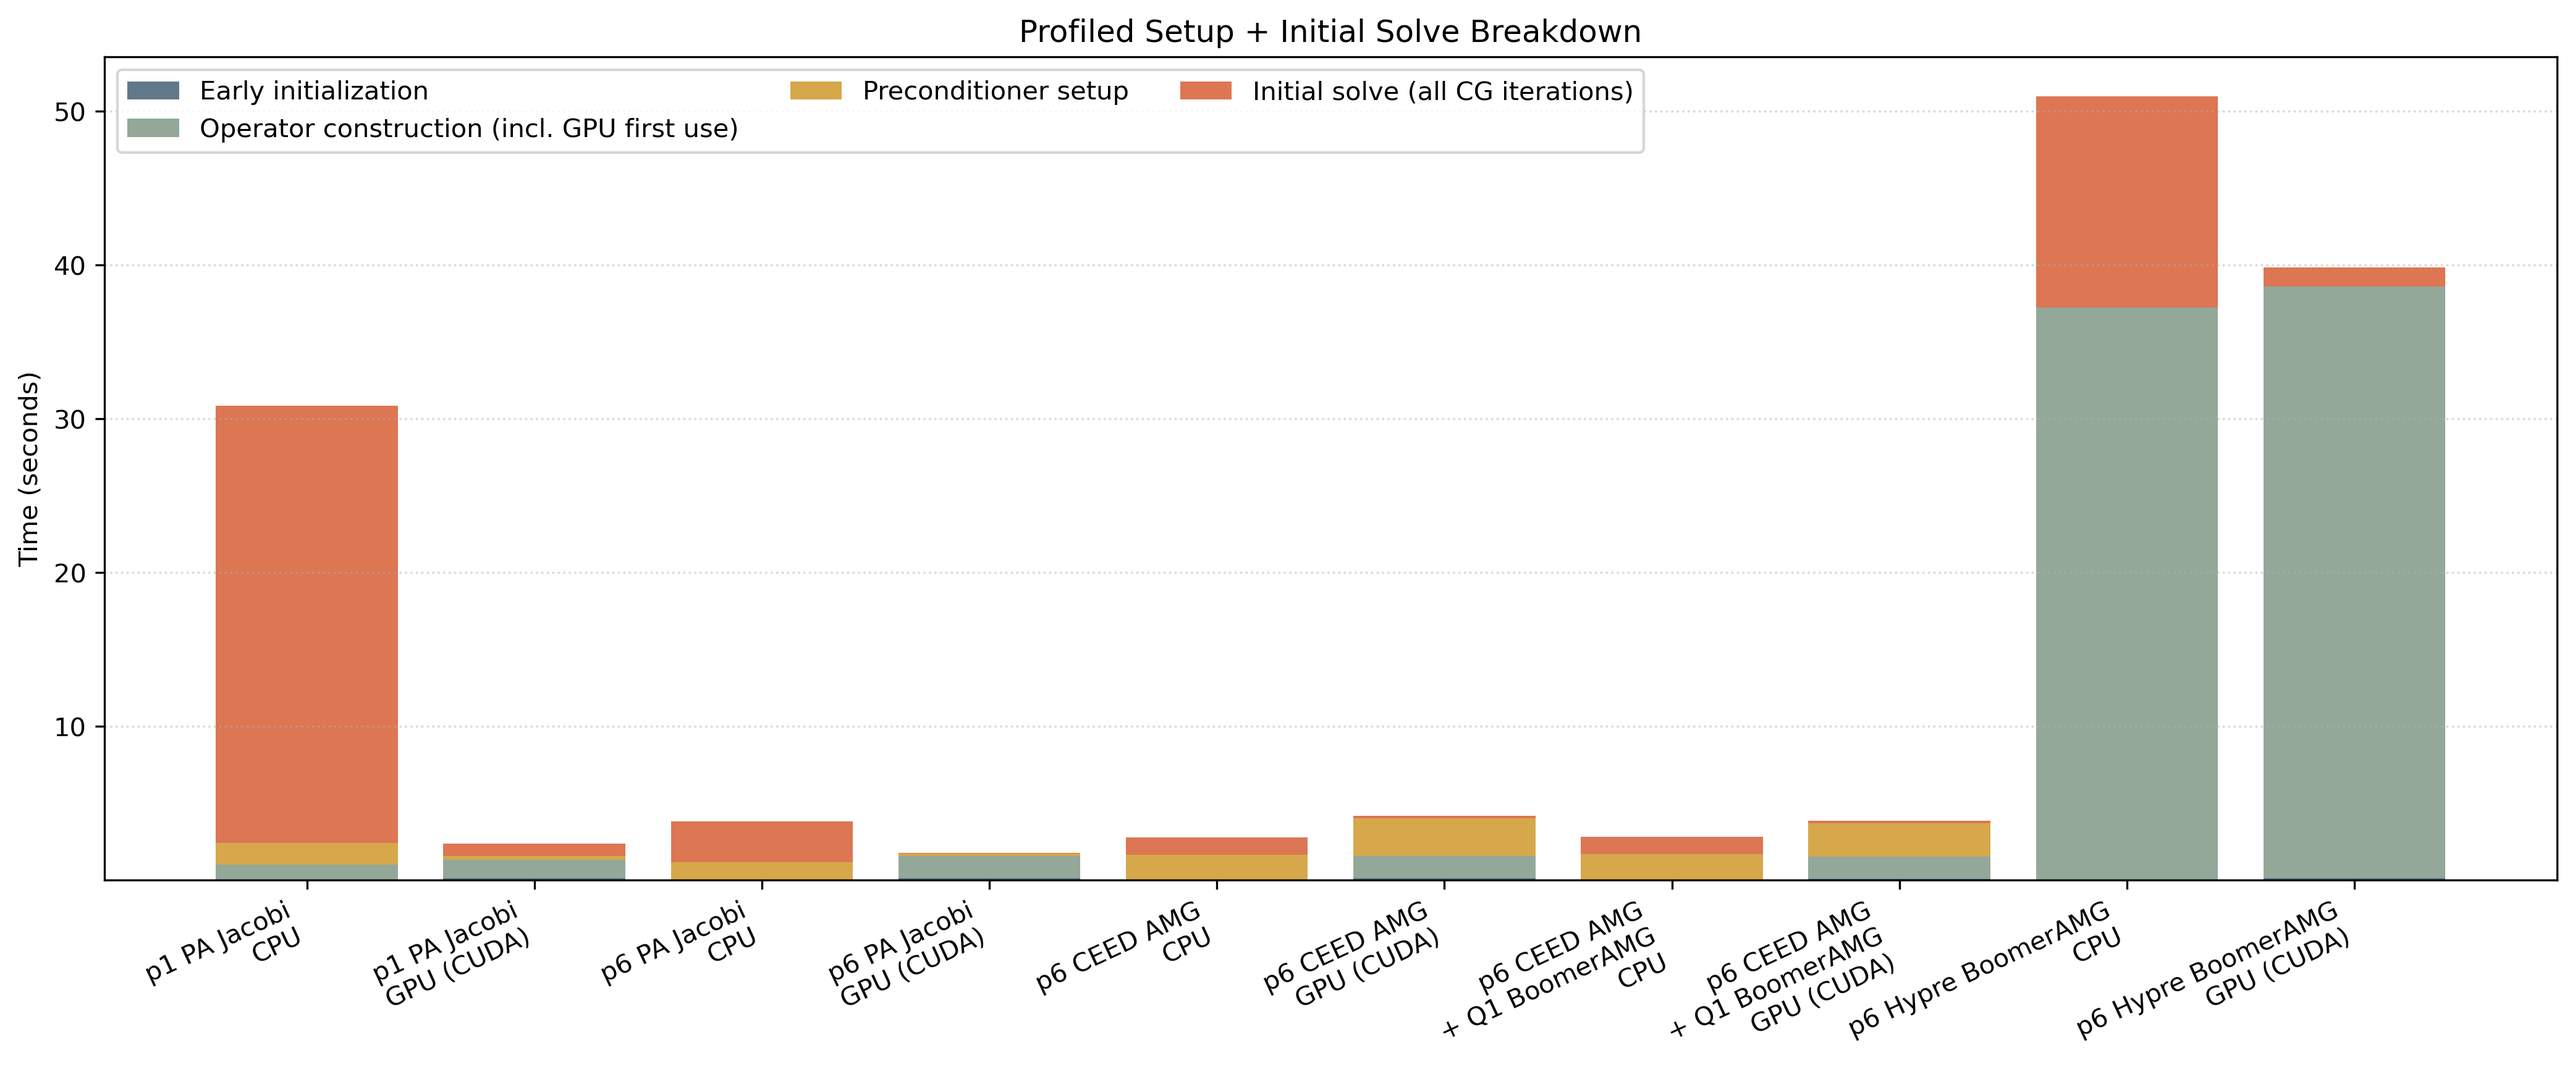
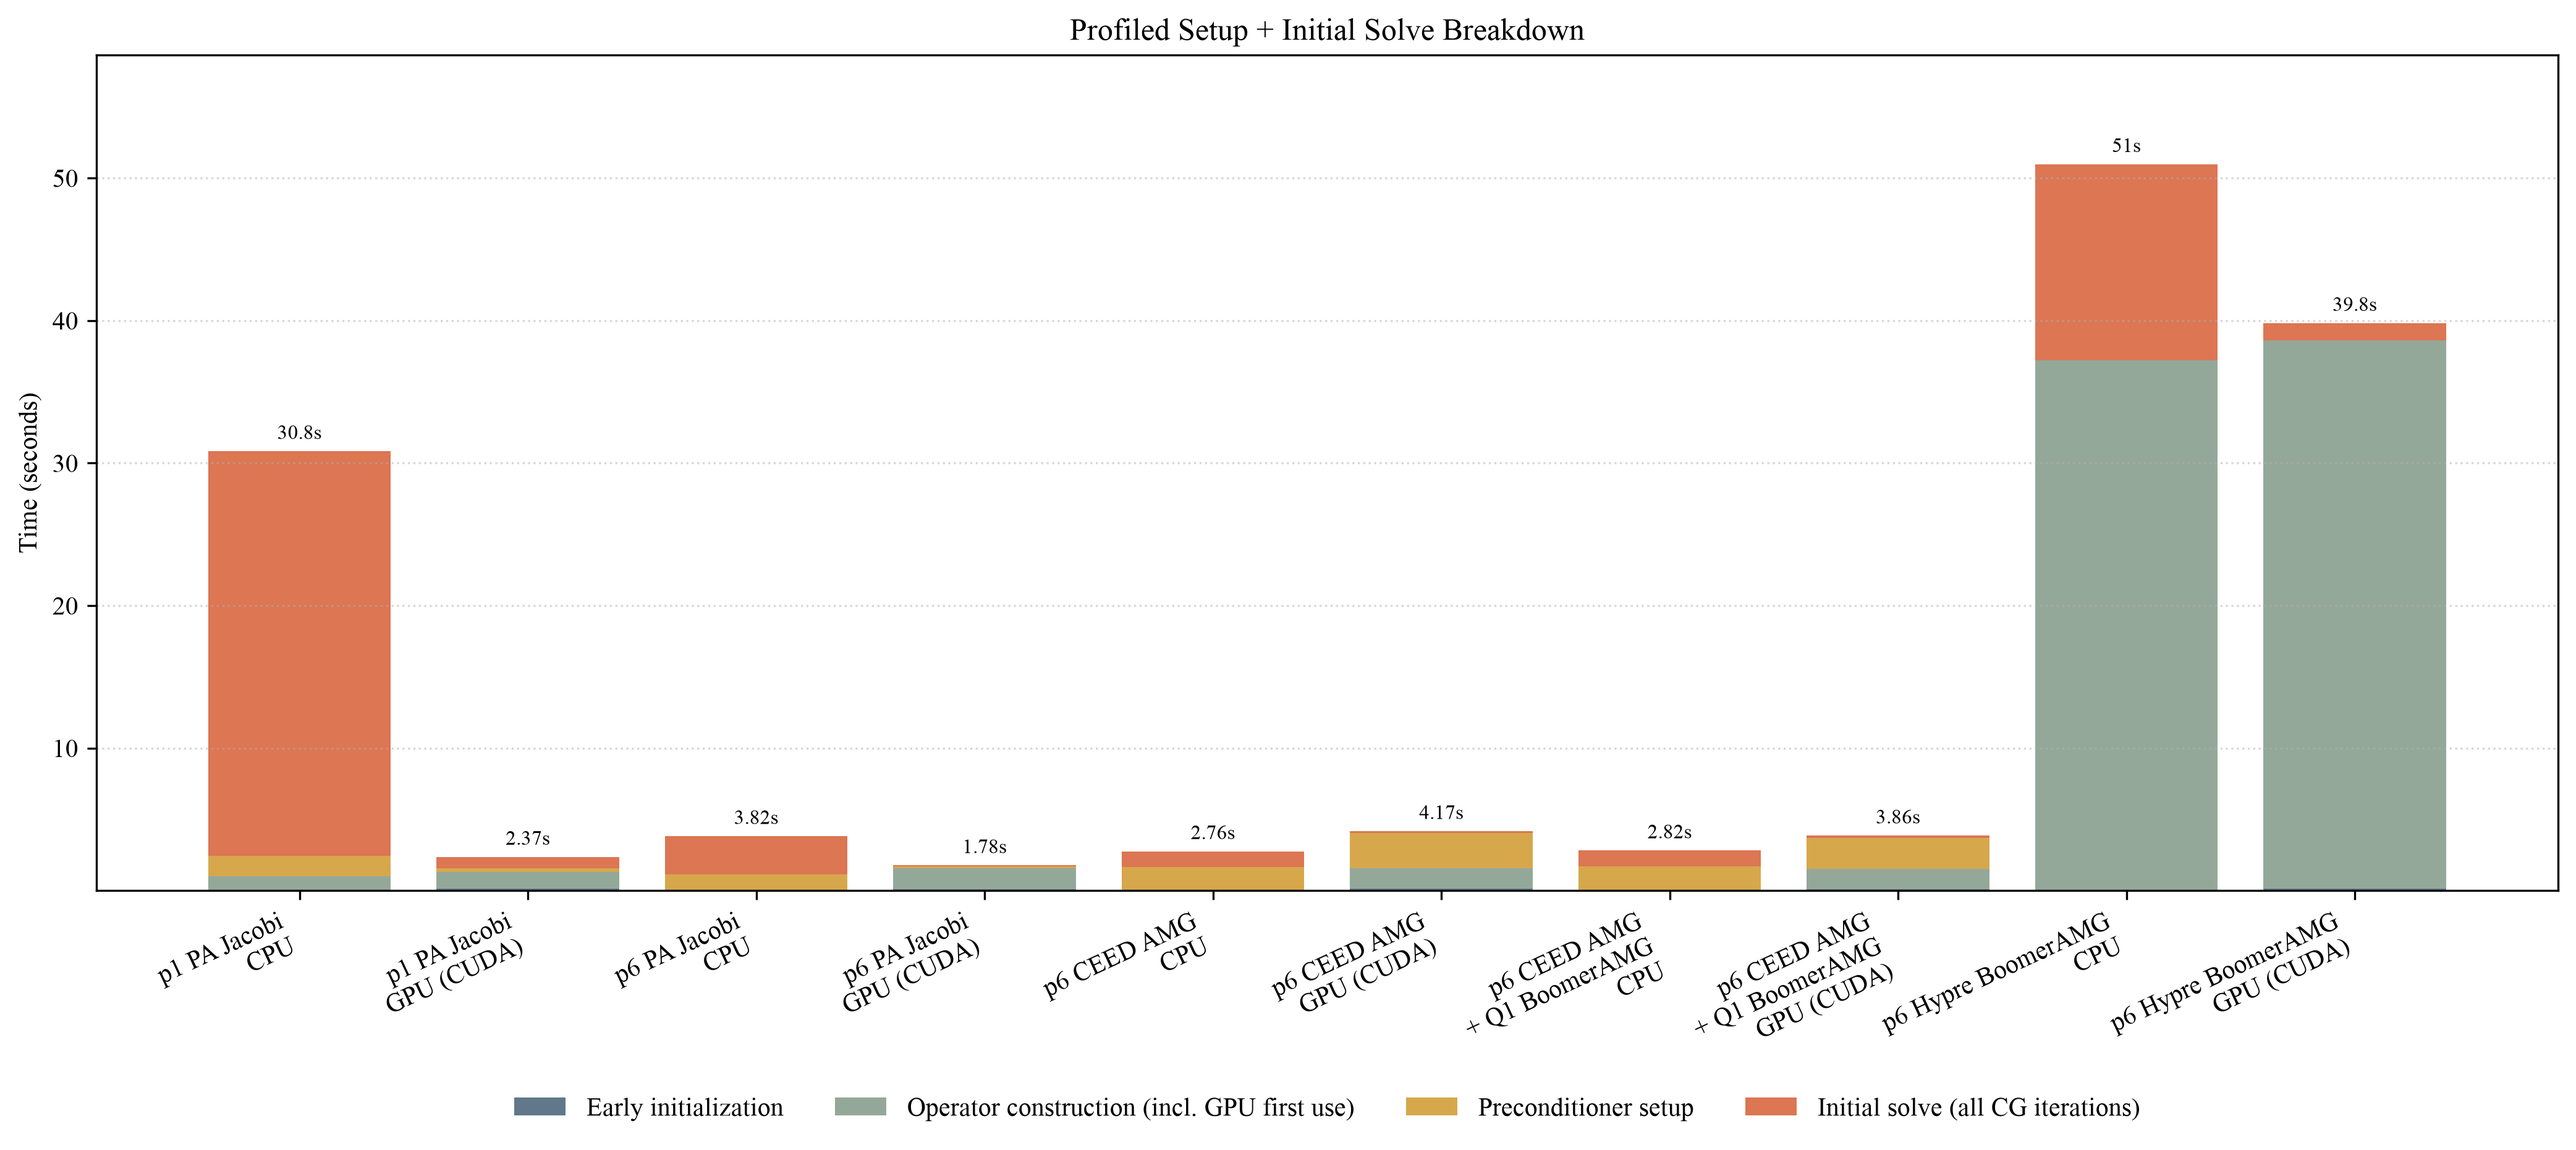
Add 3D Q1 BoomerAMG replot script

diff --git a/python_script/gpu_showcase_with_boomer_on_Q1_3D_replot.py b/python_script/gpu_showcase_with_boomer_on_Q1_3D_replot.py
@@ -1,0 +1,79 @@
+#!/usr/bin/env python3
+"""Re-render the 3D Q1 BoomerAMG GPU showcase plots without rerunning simulations."""
+
+import argparse
+from pathlib import Path
+
+import matplotlib.pyplot as plt
+
+from gpu_showcase_replot import load_rows, write_comparison_plot, write_phase_plot
+from profiling_and_error import default_tagged_input, split_platform_tag
+
+
+plt.rcParams.update(
+    {
+        "font.family": "serif",
+        "font.serif": ["Times New Roman"],
+        "mathtext.fontset": "stix",
+    }
+)
+
+
+def parse_args() -> argparse.Namespace:
+    default_dir = (
+        Path(__file__).resolve().parent
+        / "gpu_showcase_with_boomer_on_Q1_3D_results"
+    )
+    parser = argparse.ArgumentParser(description=__doc__)
+    parser.add_argument(
+        "--input",
+        type=Path,
+        default=default_tagged_input(
+            default_dir, "gpu_showcase_with_boomer_on_Q1_3D"
+        ),
+        help="input CSV (default: %(default)s)",
+    )
+    parser.add_argument(
+        "--comparison-out",
+        type=Path,
+        default=None,
+        help="comparison PNG (default: <input dir>/"
+             "gpu_showcase_with_boomer_on_Q1_3D_<platform>.png)",
+    )
+    parser.add_argument(
+        "--phases-out",
+        type=Path,
+        default=None,
+        help="phase PNG (default: <input dir>/"
+             "gpu_showcase_with_boomer_on_Q1_3D_phases_<platform>.png)",
+    )
+    args = parser.parse_args()
+    args.input = args.input.resolve()
+    if not args.input.is_file():
+        parser.error(f"input CSV not found: {args.input}")
+    parent = args.input.parent
+    # Follow the tag the CSV already carries, so replotting a Linux run on a Mac
+    # does not relabel its PNGs.
+    base, tag = split_platform_tag(args.input.stem)
+    args.comparison_out = (
+        args.comparison_out or parent / f"{base}{tag}.png"
+    ).resolve()
+    args.phases_out = (
+        args.phases_out or parent / f"{base}_phases{tag}.png"
+    ).resolve()
+    return args
+
+
+def main() -> None:
+    args = parse_args()
+    rows = load_rows(args.input)
+    if not rows:
+        raise SystemExit(f"no rows in {args.input}")
+    write_comparison_plot(rows, args.comparison_out)
+    write_phase_plot(rows, args.phases_out)
+    print(f"Comparison: {args.comparison_out}")
+    print(f"Phases:     {args.phases_out}")
+
+
+if __name__ == "__main__":
+    main()
